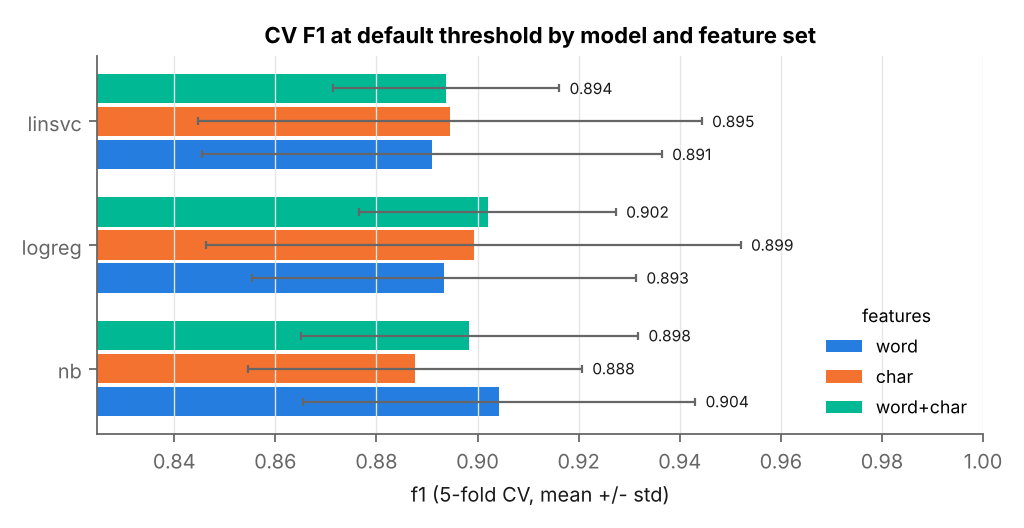
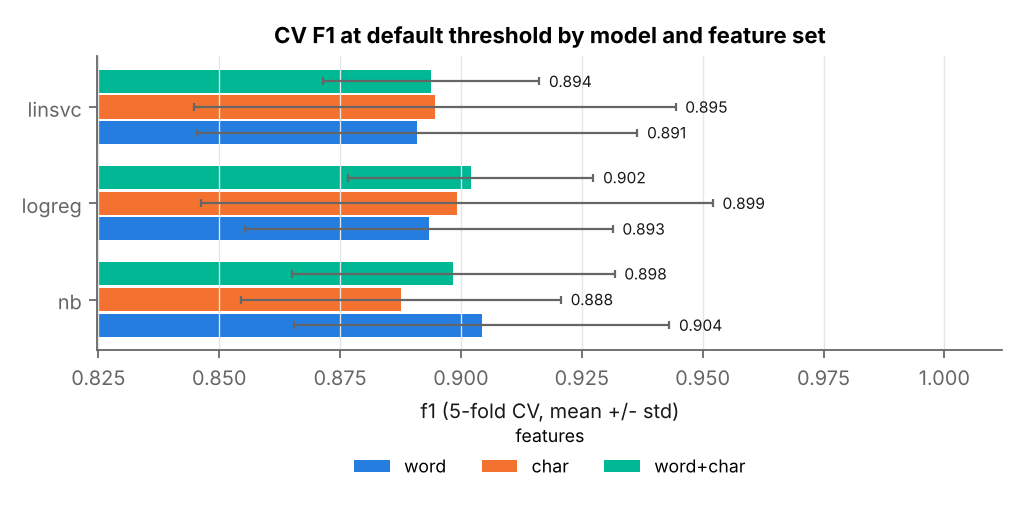
Move CV bar-chart legend below the plot and redraw the committed figures
Claude-Session: https://claude.ai/code/session_01SWKAheXupVh4mWwFe49t2u

diff --git a/backend/ml/plots.py b/backend/ml/plots.py
@@ -173,7 +173,8 @@ def cv_bars(rows: list[dict], metric: str, title: str, path: Path) -> str:
                     va="center", fontsize=7, color=TEXT)
     lo = min(r[f"{metric}_mean"] - r[f"{metric}_std"] for r in rows)
     ax.set_yticks(range(len(models)), models)
-    ax.set(xlabel=f"{metric} (5-fold CV, mean +/- std)", title=title, xlim=(max(0, lo - 0.02), 1.0))
+    ax.set(xlabel=f"{metric} (5-fold CV, mean +/- std)", title=title, xlim=(max(0, lo - 0.02), 1.012))
     ax.grid(axis="y", visible=False)
-    ax.legend(loc="lower right", fontsize=8, title="features", title_fontsize=8)
+    ax.legend(loc="upper center", bbox_to_anchor=(0.5, -0.2), ncol=len(feats), fontsize=8, title="features",
+              title_fontsize=8)
     return _save(fig, path)
